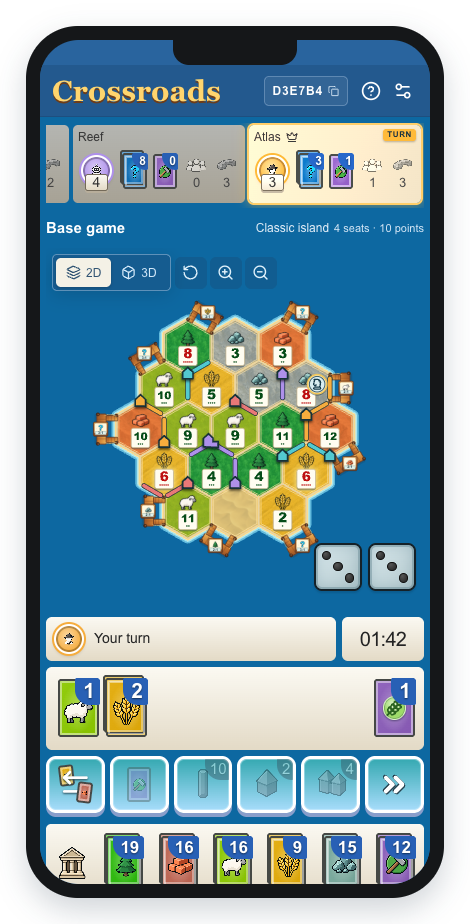
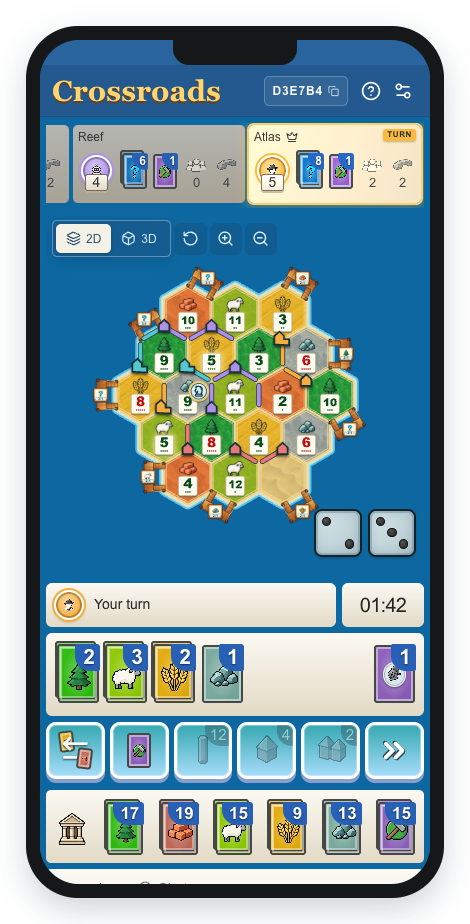
Keep desktop turn highlight inside player list

diff --git a/client/game-ui.css b/client/game-ui.css
@@ -90,6 +90,11 @@ button.game-card:disabled { opacity: .42; }
 .in-game .roster-opponents > .player-card { flex: 0 0 auto; }
 .in-game .roster-self { flex: 0 0 auto; }
 .in-game .player-card { position: relative; display: grid; grid-template-columns: 78px 1fr; grid-template-rows: 23px 1fr; align-items: center; gap: 0 5px; margin: 0; min-height: 83px; padding: 5px 8px 9px; border: 0; border-radius: 5px; background: linear-gradient(#b4b5b1,#a7a295); box-shadow: none; color: #363636; transition: background .18s ease,box-shadow .18s ease,filter .18s ease,transform .18s ease; }.in-game .player-card.is-you { background: var(--cream); }.in-game .player-card.is-current { z-index: 1; background: linear-gradient(110deg,color-mix(in srgb,var(--player) 24%,#fffdf4),color-mix(in srgb,var(--player) 11%,#ded9ca)); box-shadow: 0 0 0 3px color-mix(in srgb,var(--player) 78%,#fff),0 0 18px 3px color-mix(in srgb,var(--player) 58%,transparent); filter: brightness(1.08) saturate(1.08); transform: translateX(-2px); animation: player-turn-glow 1.6s ease-in-out infinite alternate; }.in-game .player-card.is-current::after { content: "TURN"; position: absolute; top: 6px; right: 7px; padding: 2px 5px; border-radius: 3px; background: var(--player); box-shadow: 0 1px 2px #0004; color: #142d39; font: 900 9px/1.25 Arial,sans-serif; letter-spacing: .08em; }.in-game .player-card.is-current .player-presence { right: 50px; }
+@media (min-width: 761px) {
+  .in-game .roster-opponents { padding: 5px 6px 8px; }
+  .in-game .roster-self { padding: 5px 6px 7px; }
+  .in-game .player-card.is-current { transform: none; }
+}
 @keyframes player-turn-glow { from { box-shadow: 0 0 0 3px color-mix(in srgb,var(--player) 72%,#fff),0 0 11px 1px color-mix(in srgb,var(--player) 42%,transparent); } to { box-shadow: 0 0 0 3px color-mix(in srgb,var(--player) 90%,#fff),0 0 20px 4px color-mix(in srgb,var(--player) 66%,transparent); } }
 .player-name { grid-column: 1 / -1; display: flex; align-items: center; justify-content: flex-start; gap: 5px; overflow: hidden; white-space: nowrap; text-overflow: ellipsis; font-size: 17px; line-height: 23px; color: #363636; font-weight: 400; }
 .player-score-avatar { display: flex; justify-content: center; padding: 2px 8px 4px 0; }.player-score-avatar .avatar-badge { width: 43px; height: 43px; }
